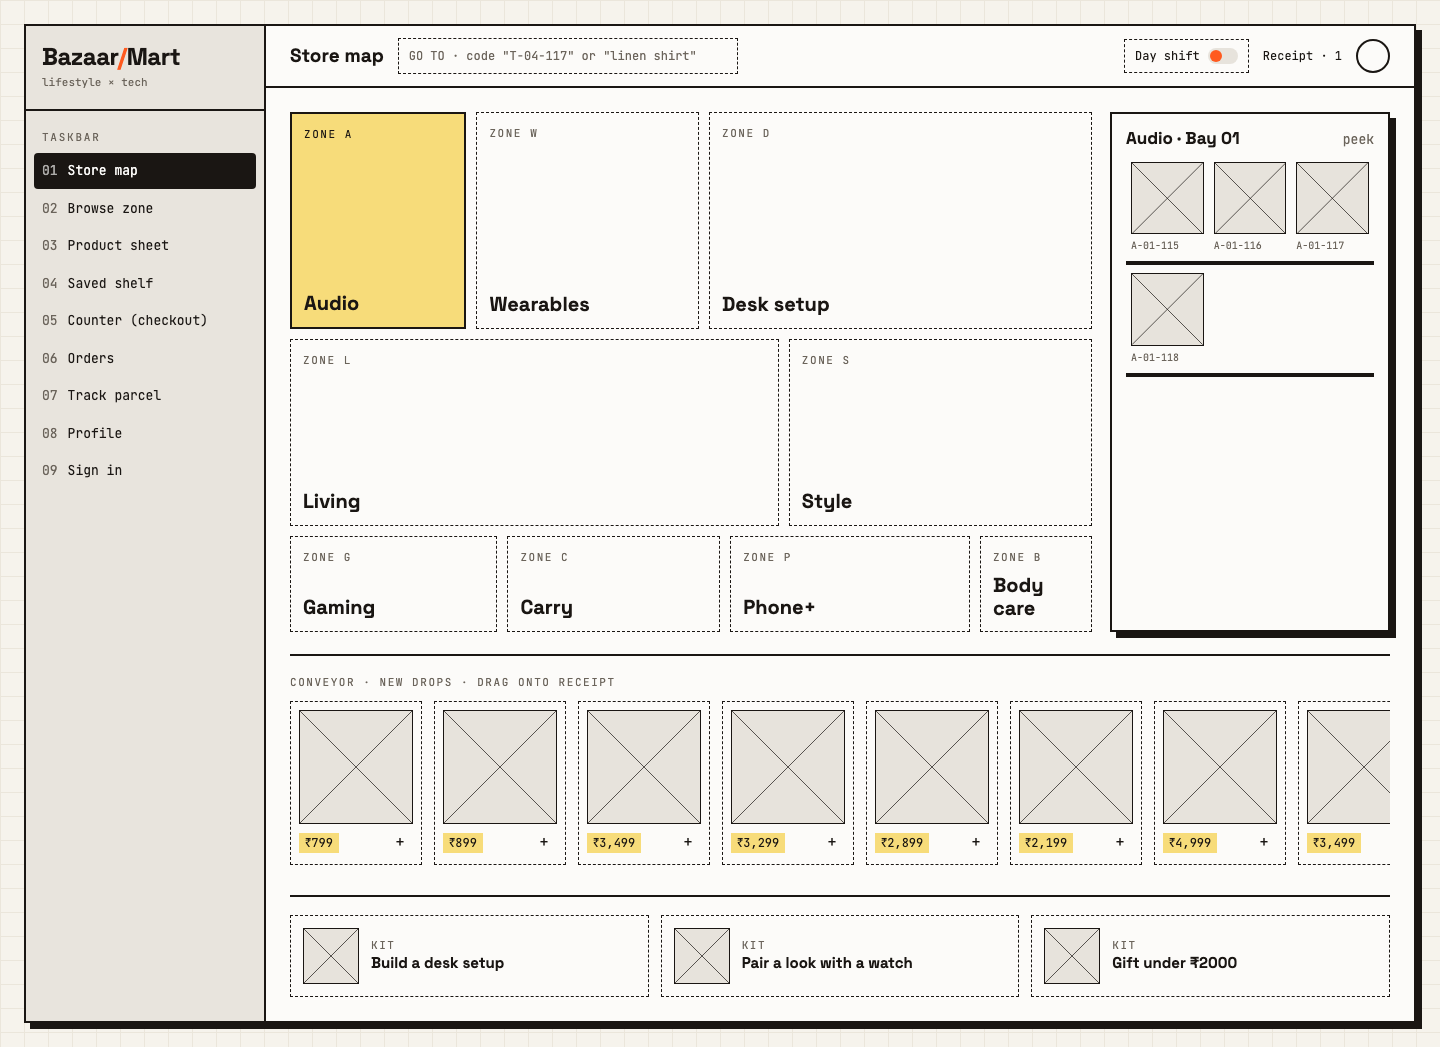
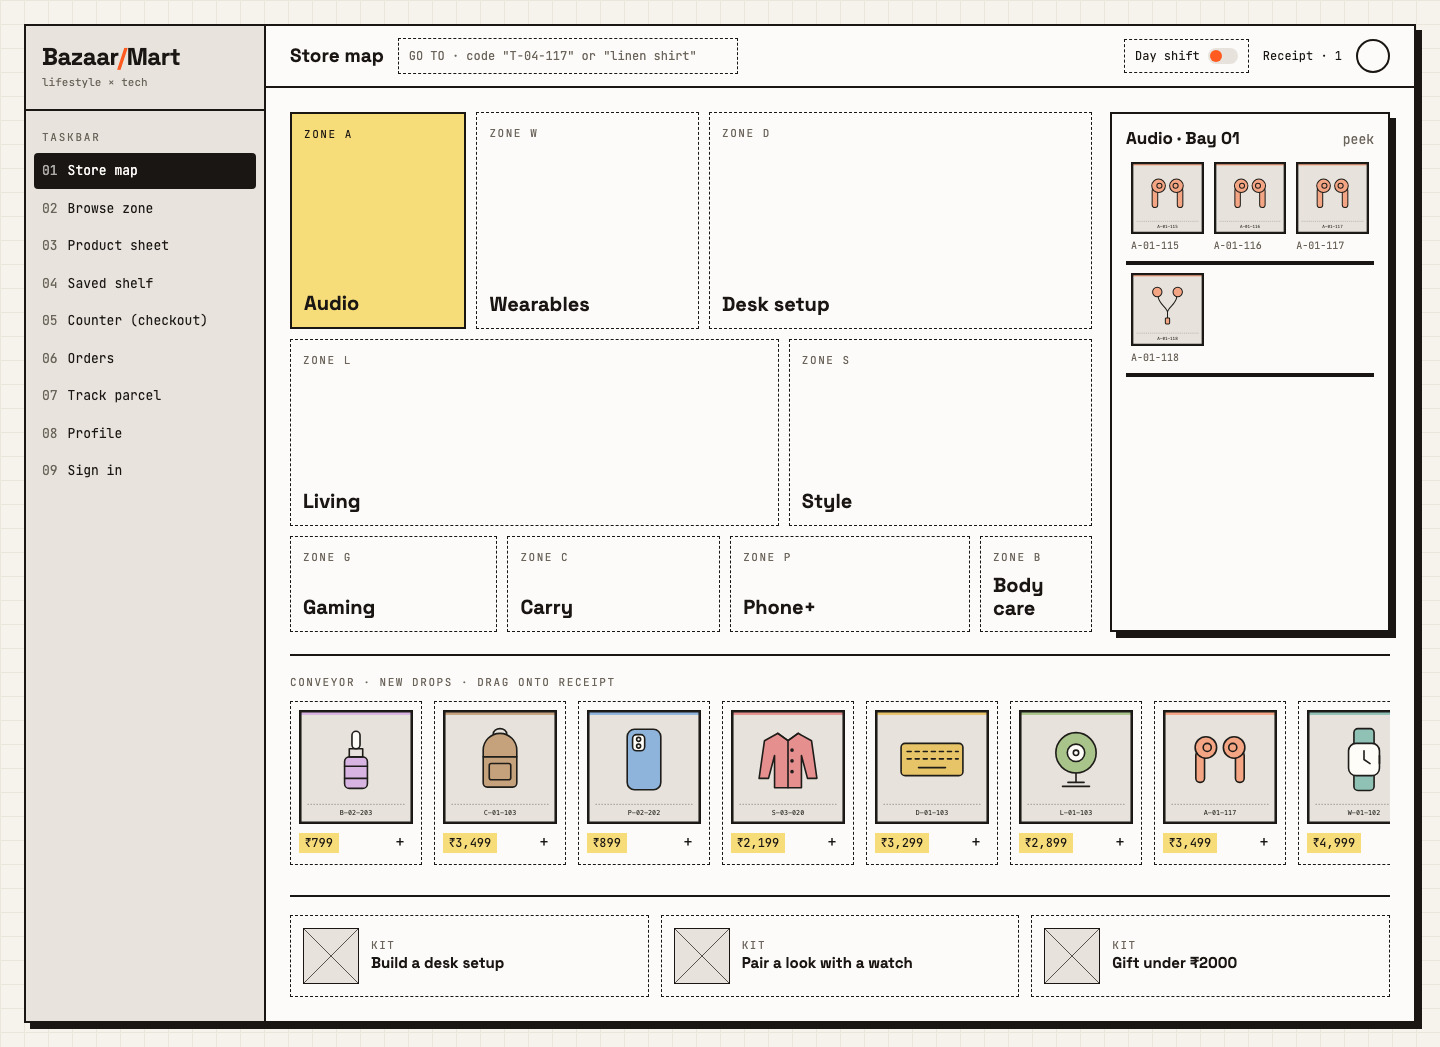
Update the README for the finished site
Adds the overview, environment table, new routes and endpoints, Thunder Client
steps, screenshots, deployment steps and a table of known trade-offs. Replaces
the placeholder-era screenshots.

diff --git a/README.md b/README.md
@@ -2,16 +2,21 @@
 
 **lifestyle × tech.** A full-stack MERN shopping website built for the CS3801 Web Technologies Lab. It combines Exercise 8 (the shopping application with JWT login) with the CRUD API pattern from Exercise 7, applied to products.
 
-> **Rebuild in progress.** This README describes what works today. The target design is in [docs/DESIGN.md](docs/DESIGN.md), with wireframes in [docs/wireframe/](docs/wireframe/). The look and pages will change as each step lands.
+It behaves like a physical store floor: you walk in through a **store map** of zones, browse **bays** of products, keep things on a **receipt**, save them to **shelves**, pay at the **counter** and follow the **parcel**.
 
-- Register, log in and manage your profile
-- Browse, search, filter and sort the catalogue
-- Add items to a cart, place an order and view order history
-- Manage products as an admin
+- Phone OTP sign-in (mock SMS), email login and registration, and guest checkout
+- A store map sized by stock, with a peek panel, a drag-to-receipt conveyor and kits
+- Filter dials, shelf, list and bench views, and a product sheet with reviews and Q&A
+- A three-step counter with simulated payment, a server-priced receipt and coupons
+- Saved shelves with price-drop watch and public share links
+- Orders with a five-segment progress bar, invoices, Buy again and parcel tracking
+- A membership-card profile, plus the lab's PUT, PATCH and DELETE on `?emailId=`
+- An admin page for products and for moving orders along
+- Day shift and Night shift themes, from 1440 px down to phone width
 
-**Stack:** MongoDB, Express 5, React 18, Node.js, Mongoose 8, Vite, React Router 7, JWT, bcrypt, plain CSS.
+**Stack:** MongoDB and Mongoose 8, Express 5, React 18 with Vite and React Router 7, Node.js, JWT, bcrypt, helmet and plain CSS. Tests use `node:test`, supertest and mongodb-memory-server.
 
-![BazaarMart in Day shift](docs/screenshots/shell-day.png)
+![The store map in Day shift](docs/screenshots/map-day.png)
 
 ## Getting started
 
@@ -37,8 +42,12 @@ Fill in `backend/.env`:
 | `PORT` | No | API port, default `5000` |
 | `CLIENT_ORIGIN` | No | Frontend URL allowed by CORS, default `http://localhost:5173` |
 | `DNS_SERVERS` | No | Comma-separated DNS servers, only if MongoDB SRV lookups fail on your network |
+| `OTP_MOCK` | No | `true` turns on the mock SMS provider. Without it, phone sign-in returns 503 |
+| `REQUIRE_AUTH_FOR_CATALOGUE` | No | `true` restores the lab rule that product data needs a login. Default is public |
 
-`OTP_MOCK=true` turns on the mock SMS provider, which prints sign-in codes to the server console. No real SMS provider is connected, so phone sign-in returns 503 without it. Product data is public by default. `REQUIRE_AUTH_FOR_CATALOGUE=true` makes the product list, category, product sheet, search and kit detail routes return 401 without a token, which restores the lab rule that products need a login.
+`frontend/.env` holds one setting, `VITE_API_URL`, the API address ending in `/api`. Product images are served beside it.
+
+The mock SMS provider prints sign-in codes to the server console. `REQUIRE_AUTH_FOR_CATALOGUE=true` makes the product list, category, product sheet, search and kit detail routes return 401 without a token.
 
 Then seed the database and start both apps:
 
@@ -49,7 +58,7 @@ npm run dev     # API on :5000, website on http://localhost:5173
 
 The seed is safe to re-run. It adds only what's missing, so product edits and stock levels are kept, and an existing admin keeps their password. Changing `SEED_ADMIN_PASSWORD` later has no effect on that account. If a normal account already holds the admin email, the seed promotes it and replaces its password.
 
-The demo user (`SEED_DEMO_EMAIL`, `SEED_DEMO_PASSWORD`) gets a saved address and two orders, one out for delivery and one packed. It's skipped if those settings are blank. The catalogue lives in `backend/data/catalogue.js`, with invented brands. Product images are generated SVGs in `backend/public/products`: run `npm run images --prefix backend` after changing the catalogue, then `npm run seed --prefix backend` to refresh them in the database.photos.
+The demo user (`SEED_DEMO_EMAIL`, `SEED_DEMO_PASSWORD`) gets a saved address and two orders, one out for delivery and one packed. It's skipped if those settings are blank. The catalogue lives in `backend/data/catalogue.js`, with invented brands. Product images are generated SVGs in `backend/public/products`: run `npm run images --prefix backend` after changing the catalogue, then `npm run seed --prefix backend` to refresh them in the database.
 
 If port 5000 is already in use on macOS, AirPlay Receiver is the usual cause. Set `PORT` in `backend/.env` and `VITE_API_URL` in `frontend/.env` to another port.
 
@@ -74,14 +83,15 @@ Run these from the project root.
 | `/map` | Store map: tiles sized by stock, peek panel, new-drops conveyor, kits | Public |
 | `/zone/:zoneCode` | Browse a zone: filter dials and shelf, list and bench views, all kept in the URL | Public |
 | `/p/:sku` | Product sheet: gallery, specs, colours, add, bench, save, fits with, reviews, Q&A | Public |
-| `/saved` | Saved shelf (placeholder for now) | Logged in |
+| `/saved` | Named shelves with share links, price-drop watch and move to receipt | Logged in |
 | `/counter` | Counter: three-step checkout on one screen, with a server-priced receipt | Public, guests allowed |
-| `/orders` | Order history | Logged in |
-| `/track/:orderNo` | Track parcel (placeholder for now) | Public, guests check by phone |
-| `/profile` | Account settings: personal details (PATCH), password (PUT), delete account (DELETE) | Logged in |
+| `/orders` | Timeline of orders with tabs, progress bars, Track, Invoice and Buy again | Logged in |
+| `/track/:orderNo` | Simulated route, ETA window, courier, delivery OTP, journey and parcel actions | Owner, or a guest with the order's phone |
+| `/track` | Find a guest order by number and phone | Public |
+| `/profile` | Member card and six panels: addresses, payments, devices, style, notifications, account | Logged in |
 | `/signin` | Phone OTP first, then email login or registration. Google shows that it isn't configured | Public |
-| `/s/:shareId` | Shared shelf (placeholder for now) | Public |
-| `/admin/products` | Add, edit and delete products | Admin |
+| `/s/:shareId` | Read-only shared shelf | Public |
+| `/admin/products` | Add, edit and delete products, and advance orders for demos | Admin |
 
 `/login` and `/register` redirect to `/signin`. Every page sits in the same shell: the numbered Taskbar, a top bar with the GO TO box (press `/` to focus it), the Day and Night shift toggle, and the receipt drawer. The theme follows your system until you choose one. Guests keep a receipt in the browser, and it joins your account's receipt when you sign in.
 
@@ -108,9 +118,11 @@ Protected routes need the header `Authorization: Bearer <token>`.
 | POST | `/api/users` | Public | Register: 201, 400, 409 |
 | POST | `/api/login` | Public | Returns `data.token` and `data.user`: 200, 400, 401, 404 |
 | GET | `/api/users/me` | Logged in | Current user |
+| PATCH | `/api/users/me` | Logged in | Like the `?emailId=` PATCH, for phone accounts that have no email. Can add an email once: 200, 400, 409 |
+| DELETE | `/api/users/me` | Logged in | Like the `?emailId=` DELETE: 204 |
 | PUT | `/api/users?emailId=` | Own account | Full update; needs `username`, `age` and `password` |
 | PATCH | `/api/users?emailId=` | Own account | Any of `username`, `age`, `password` |
-| DELETE | `/api/users?emailId=` | Own account | Delete account: 204 |
+| DELETE | `/api/users?emailId=` | Own account | Delete account: 204. Shelves go with it, so share links stop working; orders stay on record |
 
 ### Phone sign-in
 
@@ -130,6 +142,8 @@ All of these need a login and affect only your own account.
 | PUT, DELETE | `/api/users/me/addresses/:id` | Update fields sent: 200, or delete: 204 |
 | GET, POST | `/api/users/me/devices` | List, or add: 201 |
 | PUT, DELETE | `/api/users/me/devices/:id` | Update fields sent: 200, or delete: 204 |
+| GET, POST | `/api/users/me/payment-methods` | List, or add a display label: `{ "type": "upi", "label": "name@bank" }` or `{ "type": "card", "label": "Visa", "last4": "4021" }`. Anything that could be a full card number gets 400 |
+| DELETE | `/api/users/me/payment-methods/:id` | Delete: 204 |
 | GET, PATCH | `/api/users/me/prefs` | Read, or change only the preferences sent |
 
 ### Products
@@ -184,6 +198,7 @@ Both GET routes also accept:
 | GET | `/api/orders/:orderNo` | Owner or admin | One order |
 | GET | `/api/orders/:orderNo/track` | Owner or admin | Events, ETA window and courier, plus the delivery OTP for the owner once out for delivery |
 | PATCH | `/api/orders/:orderNo` | Owner | `{ "slot" }`, `{ "leaveAtDoor", "deliveryNote" }` or `{ "cancel": true }`. Cancelling works only before shipping and restores stock |
+| GET | `/api/admin/orders?status=` | Admin | Newest 100 orders with the next allowed status, without contact details |
 | PATCH | `/api/admin/orders/:orderNo/status` | Admin | `{ "status" }`, one step at a time: 200, 400, 404, 409 |
 
 A checkout body looks like this. Logged-in customers leave out `guest`; for guests it needs a name and phone. On guest orders, pass `?phone=` with the number used at checkout.
@@ -235,18 +250,45 @@ Each item shows `savedPrice`, `currentPrice` and `percentChange`.
 
 ## Testing
 
-`npm test` covers the API, the data models and the seed script on temporary databases, including two buyers trying to take the last unit at once. The first run downloads a temporary MongoDB binary.
+`npm test` runs 308 tests on temporary in-memory databases, covering the API, the data models and the seed script, including two buyers trying to take the last unit at once. `backend/tests/acceptance.test.js` has one named test per line of the acceptance checklists. The first run downloads a temporary MongoDB binary. The checklist audit, with evidence for each line, is in [docs/ACCEPTANCE.md](docs/ACCEPTANCE.md).
 
-`bash docs/api-tests/auth-curl.sh http://localhost:5000/api` checks the sign-in flows with curl, and `docs/api-tests/catalogue-curl.sh` and `docs/api-tests/orders-curl.sh` do the same for the catalogue and for orders (see the top of each file for its arguments). It creates test accounts, so run it against a development database, with `OTP_MOCK=true` and `NODE_ENV` not set to production.
+### Thunder Client
 
-To test by hand, import `docs/api-tests/bazaarmart.postman_collection.json` into Thunder Client or Postman. Run `npm run seed` first, set the `adminEmail` and `adminPassword` collection variables to your `SEED_ADMIN_EMAIL` and `SEED_ADMIN_PASSWORD` values, then run the requests in order. The collection cleans up its test user and product at the end, but one order record remains.
+`docs/api-tests/` holds a collection of 183 requests covering every route and every status code a request can trigger. It uses `{{baseUrl}}`, `{{token}}` and `{{adminToken}}`, and saves tokens and ids as it goes.
+
+1. Run `npm run seed`, and set `OTP_MOCK=true` with `NODE_ENV` not set to production.
+2. In Thunder Client, import `thunder-collection_BazaarMart.json` and `thunder-environment_BazaarMart.json`.
+3. Set `adminEmail` and `adminPassword` in the environment to your `SEED_ADMIN_EMAIL` and `SEED_ADMIN_PASSWORD`, then run the folders in order.
+
+To replay the same file from the terminal:
+
+```bash
+node docs/api-tests/run-collection.mjs http://localhost:5000/api admin@example.com 'admin-password'
+```
+
+It cleans up after itself, apart from two order records. The last folder uses up the OTP limit, so wait 10 minutes between runs. Use a development database. Two codes can't be triggered this way: 503 needs `OTP_MOCK` turned off, and 500 needs a database failure. `node docs/api-tests/make-collection.mjs` regenerates the files after an API change.
+
+The older `auth-curl.sh`, `catalogue-curl.sh` and `orders-curl.sh` scripts in the same folder check the same flows with curl. See the top of each file for its arguments.
+
+## Screenshots
+
+| | |
+|---|---|
+| ![Sign in](docs/screenshots/signin-day.png) | ![Browse zone](docs/screenshots/zone-day.png) |
+| ![Product sheet in Night shift](docs/screenshots/sheet-night.png) | ![Counter](docs/screenshots/counter-day.png) |
+| ![Saved shelf](docs/screenshots/saved-day.png) | ![Orders](docs/screenshots/orders-day.png) |
+| ![Track parcel in Night shift](docs/screenshots/track-night.png) | ![Profile](docs/screenshots/profile-day.png) |
+| ![Orders on a phone in Night shift](docs/screenshots/orders-phone-night.png) | ![Track parcel on a tablet](docs/screenshots/track-tablet-day.png) |
 
 ## Deployment
 
-1. Create a MongoDB Atlas cluster and allow your host's IP addresses.
-2. Deploy `backend/` to Render or Railway with start command `npm start`. Set `NODE_ENV=production`, `MONGO_URI`, `JWT_SECRET` and `CLIENT_ORIGIN` (your frontend URL).
-3. Deploy `frontend/` to Vercel or Netlify with build command `npm run build` and output folder `dist`. Set `VITE_API_URL` to your backend URL followed by `/api`. Add a rewrite that sends all paths to `index.html`, so page refreshes work.
-4. Run `npm run seed` once with the production `MONGO_URI`, `SEED_ADMIN_EMAIL` and `SEED_ADMIN_PASSWORD` set.
+The API goes on Render or Railway, the website on Vercel or Netlify, and the database on MongoDB Atlas.
+
+1. **Atlas:** create a cluster and a database user. Under Network Access, allow your host's outbound addresses, or `0.0.0.0/0` for a demo.
+2. **Render or Railway:** deploy `backend/` with build command `npm install` and start command `npm start`. Set `NODE_ENV=production`, `MONGO_URI`, a long random `JWT_SECRET`, and `CLIENT_ORIGIN` set to your exact frontend URL with no trailing slash. Add `OTP_MOCK=true` for phone sign-in. In production the code appears only in the server log.
+3. **Vercel or Netlify:** deploy `frontend/` with build command `npm run build` and output folder `dist`. Set `VITE_API_URL` to your backend URL followed by `/api`, before the build runs. Add a rewrite that sends all paths to `index.html`, so page refreshes work.
+4. **Seed once:** run `npm run seed` from your machine with the production `MONGO_URI`, `SEED_ADMIN_EMAIL` and `SEED_ADMIN_PASSWORD` in `backend/.env`.
+5. Open the site, then check `GET /api/health` if the catalogue doesn't load.
 
 ## Security notes
 
@@ -254,8 +296,27 @@ To test by hand, import `docs/api-tests/bazaarmart.postman_collection.json` into
 - Secrets live only in `backend/.env`, which git ignores.
 - Registration can't set a role. Admin accounts come only from the seed script.
 - Every token is checked against the database, so a deleted account loses access immediately.
+- Prices and totals are always worked out on the server.
 - Failed login and registration attempts are limited to 10 per IP address every 15 minutes.
-- **Known trade-off:** the login token is stored in `localStorage`, which is simple but can be read by any script that runs on the page (an XSS attack). This is acceptable for a lab project, but a production shop should use httpOnly cookies.
+- Guests reach an order only with the phone number used at checkout, and the delivery OTP is shown only to the order's owner.
+
+## Known trade-offs
+
+These are deliberate for a lab project, and a real shop would need to change them.
+
+| Area | What it does now | What a real shop would do |
+|---|---|---|
+| Login token | The JWT sits in `localStorage`, where any script on the page could read it (an XSS risk) | Use httpOnly cookies |
+| Phone OTP | A mock provider prints the code to the server log and, outside production, shows it on screen | Connect a real SMS provider |
+| Payments | Simulated. No money moves, and only the method is stored | Connect a payment gateway |
+| Saved payment methods | Display labels only, and checkout doesn't use them | Store gateway tokens |
+| Route map | A drawn line, with the marker placed by order status | Use real courier GPS |
+| Google sign-in | The button shows that it isn't configured (501) | Add OAuth credentials |
+| Receipt and bench | Stored per browser, so they don't follow you between devices | Sync them to the account |
+| Notifications | The toggles are saved, but nothing is sent yet | Connect email or SMS |
+| Q&A | Customers can ask, but there's no screen for answering yet | Add an admin answer route |
+| Rate limits | Counted in memory, so they reset on restart and aren't shared between servers | Use a shared store such as Redis |
+| Catalogue access | Public by default, which differs from the lab rule | Set `REQUIRE_AUTH_FOR_CATALOGUE=true` to show the lab behaviour |
 
 ## Project structure
 
@@ -263,25 +324,30 @@ To test by hand, import `docs/api-tests/bazaarmart.postman_collection.json` into
 backend/
   server.js        connects to the database and starts the API
   app.js           middleware, routes and error handling
-  seed.js          sample products and the admin account
+  seed.js          zones, kits, the catalogue, the admin and a demo user
   config/          database connection
-  models/          User, Product, Order
+  data/            the seed catalogue
+  models/          User, Product, Zone, Kit, Shelf, Order, Review, Question, Otp, Counter
   middleware/      auth, validation, error handling
   controllers/     request logic
   routes/          URL definitions
-  utils/           response helpers
-  tests/           automated API tests
+  utils/           response, session, pricing and address helpers
+  scripts/         generates the product images
+  public/products/ generated SVG product images
+  tests/           automated tests, including the acceptance suite
 frontend/src/
   api/             fetch wrapper
-  context/         auth, receipt, theme and notices
-  components/      layout (shell), ui and shop pieces
-  hooks/           shared data and timing hooks
+  context/         auth, receipt, bench, theme and notices
+  components/      layout, ui, shop, auth, counter, orders, track, profile and admin pieces
+  hooks/           shared data and interaction hooks
   pages/           one file per page
-  styles/          tokens, base, layout and components
+  styles/          tokens, base, layout, components and pages
+  utils/           invoice download
 docs/
-  api-tests/       Thunder Client / Postman collection
+  api-tests/       Thunder Client collection, its generator and runner, curl scripts
   screenshots/     screenshots of the website
   wireframe/       the 9 design wireframes
+  ACCEPTANCE.md    the checklist audit with evidence
   DESIGN.md        UI and feature specification
 ```
 
